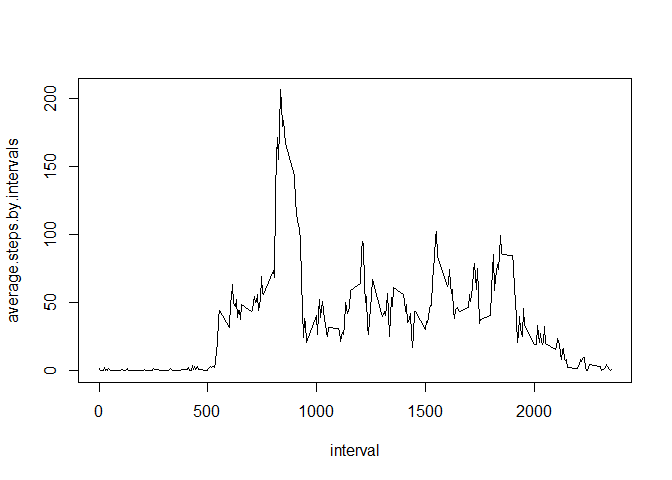
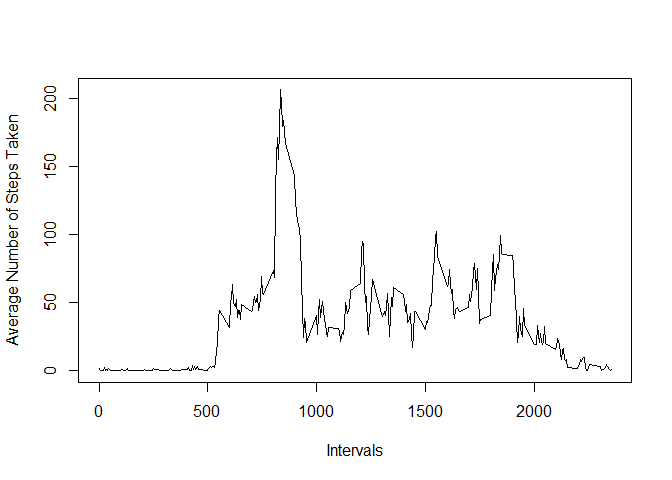
modified again

Changed region(s): [[0.0, 0.25, 0.0312, 0.7188], [0.4688, 0.9062, 0.5625, 0.9688]]

diff --git a/PA1_template.html b/PA1_template.html
@@ -106,11 +106,12 @@ data.1 &lt;- distinct(data.1,
 
 # finally, we can draw a histogram
 hist(data.1$steps.by.days,
-     xlab=&quot;Num. of steps&quot;,
+     xlab=&quot;Number of Steps Taken&quot;,
+     ylab=&quot;Number of Days&quot;,
      main=&quot;Histogram of number of steps taken by days&quot;,
      labels=TRUE,
      col=&quot;orange&quot;)</code></pre>
[2 lines of base64/hex data omitted]
 <pre class="r"><code>data1.mean &lt;- mean(data.1$steps.by.days)
 data1.median &lt;- median(data.1$steps.by.days)</code></pre>
 <p>Mean total number of steps taken per day is 1.076618910^{4}, while the median has value of 1.076510^{4}.</p>
@@ -132,27 +133,69 @@ data.2 &lt;- distinct(data.2,
 # finally, we can draw a plot
 with(data.2, plot(interval,
                   average.steps.by.intervals,
-                  type=&quot;l&quot;))</code></pre>
[1 lines of base64/hex data omitted]
+                  type=&quot;l&quot;,
+                  xlab=&quot;Intervals&quot;,
+                  ylab=&quot;Average Number of Steps Taken&quot;))</code></pre>
[1 lines of base64/hex data omitted]
 <pre class="r"><code># we must ungroup the data so that we can find interval with maximal average steps taken
 data.2 &lt;- ungroup(data.2)
 
 # now we can find needed interval
-filter(data.2,
-       average.steps.by.intervals==max(average.steps.by.intervals))$interval</code></pre>
-<pre><code>## [1] 835</code></pre>
+maximum.number.of.steps &lt;- filter(data.2,
+                                  average.steps.by.intervals==max(average.steps.by.intervals))$interval</code></pre>
+<p>Interval <strong>835</strong> contains the maximum number of steps, on average across all the days in the dataset.</p>
 </div>
 <div id="imputing-missing-values" class="section level2">
 <h2>Imputing missing values</h2>
-<pre class="r"><code>sum(is.na(with.NAs))</code></pre>
-<pre><code>## [1] 2304</code></pre>
-<pre class="r"><code># data &lt;- group_by(data, interval)
-# data &lt;- mutate(data, interval.mean=mean(steps, na.rm=TRUE))
-# backup &lt;- mutate(backup, new.steps=ifelse(is.na(steps), interval.mean, steps))</code></pre>
+<pre class="r"><code>sum.of.NAs &lt;- sum(is.na(with.NAs))</code></pre>
+<p>The total number of missing values in the dataset (i.e. the total number of rows with <code>NA</code>s) is <strong>2304</strong>.</p>
+<p>In the next code chunk we firstly group data by inervals (including rows with <code>NA</code>s). That is made because we are going to replace all <code>NA</code>s with mean number of steps taken in each interval.</p>
+<pre class="r"><code>data.3 &lt;- group_by(with.NAs, interval)</code></pre>
+<p>So after grouping the data is done, we add a variable called inerval.mean, which contains mean number of steps taken for each interval separately.</p>
+<pre class="r"><code>data.3 &lt;- mutate(data.3, interval.mean=mean(steps, na.rm=TRUE))</code></pre>
+<p>The last step is done with ease of <code>ifelse</code> statement, which allows us to simply replace <code>NA</code>s with mean number of steps for current interval, or to let there original number of steps.</p>
+<pre class="r"><code>data.3 &lt;- mutate(data.3, steps=ifelse(is.na(steps), interval.mean, steps))
+data.3 &lt;- select(data.3, steps, date, interval)
+data.3</code></pre>
+<pre><code>## Source: local data frame [17,568 x 3]
+## Groups: interval
+## 
+##        steps       date interval
+## 1  1.7169811 2012-10-01        0
+## 2  0.3396226 2012-10-01        5
+## 3  0.1320755 2012-10-01       10
+## 4  0.1509434 2012-10-01       15
+## 5  0.0754717 2012-10-01       20
+## 6  2.0943396 2012-10-01       25
+## 7  0.5283019 2012-10-01       30
+## 8  0.8679245 2012-10-01       35
+## 9  0.0000000 2012-10-01       40
+## 10 1.4716981 2012-10-01       45
+## ..       ...        ...      ...</code></pre>
+<pre class="r"><code># data.3 &lt;- ungroup(data.3)
+# 
+# data.3 &lt;- group_by(data.3,
+#                    date)
+# 
+# data.3 &lt;- mutate(data.3,
+#                  steps.by.days=sum(new.steps))
+# 
+# data.3 &lt;- distinct(data.3,
+#                    date)
+# 
+# hist(data.3$steps.by.days,
+#      xlab=&quot;Number of Steps Taken&quot;,
+#      ylab=&quot;Number of Days&quot;,
+#      main=&quot;Histogram of number of steps taken by days&quot;,
+#      labels=TRUE,
+#      col=&quot;orange&quot;)
+# 
+# data3.mean &lt;- mean(data.3$steps.by.days)
+# data3.median &lt;- median(data.3$steps.by.days)Mean total number of steps taken per day with `NA`s replaced is `r data3.mean`, while the median has value of `r data3.median`.</code></pre>
 </div>
 <div id="are-there-differences-in-activity-patterns-between-weekdays-and-weekends" class="section level2">
 <h2>Are there differences in activity patterns between weekdays and weekends?</h2>
-<p>V tejto casti treba pouzit data, kde su NA hodnoty nahradene uz!!!</p>
+<p>In this part we have got one restriction, which is to use the dataset made few steps before, where all <code>NA</code>s were replaced.</p>
 <pre class="r"><code># we simply add a variable containing type of the current day
 data.4 &lt;- mutate(without.NAs,
                  day.type=ifelse(weekdays(date) %in% c('sobota','nedela'),'weekend','weekday'))
@@ -173,9 +216,11 @@ data.4 &lt;- distinct(data.4,
 
 xyplot(average.steps.by.day.type ~ interval | day.type,
        data=data.4,
+       xlab=&quot;Intervals&quot;,
+       ylab=&quot;Average Number of Steps Taken&quot;,
        layout=c(1,2),
        type=&quot;l&quot;)</code></pre>
[2 lines of base64/hex data omitted]
 <pre class="r"><code>data.4 &lt;- ungroup(data.4)
 
 filter(data.4,

diff --git a/PA1_template.md b/PA1_template.md
@@ -57,7 +57,8 @@ data.1 <- distinct(data.1,
 
 # finally, we can draw a histogram
 hist(data.1$steps.by.days,
-     xlab="Num. of steps",
+     xlab="Number of Steps Taken",
+     ylab="Number of Days",
      main="Histogram of number of steps taken by days",
      labels=TRUE,
      col="orange")
@@ -90,7 +91,9 @@ data.2 <- distinct(data.2,
 # finally, we can draw a plot
 with(data.2, plot(interval,
                   average.steps.by.intervals,
-                  type="l"))
+                  type="l",
+                  xlab="Intervals",
+                  ylab="Average Number of Steps Taken"))
 ```
 
 ![](PA1_template_files/figure-html/averageDailyPattern-1.png) 
@@ -100,32 +103,86 @@ with(data.2, plot(interval,
 data.2 <- ungroup(data.2)
 
 # now we can find needed interval
-filter(data.2,
-       average.steps.by.intervals==max(average.steps.by.intervals))$interval
+maximum.number.of.steps <- filter(data.2,
+                                  average.steps.by.intervals==max(average.steps.by.intervals))$interval
 ```
+Interval **835** contains the maximum number of steps, on average across all the days in the dataset.
 
-```
-## [1] 835
-```
 
 ## Imputing missing values
 
 ```r
-sum(is.na(with.NAs))
+sum.of.NAs <- sum(is.na(with.NAs))
 ```
+The total number of missing values in the dataset (i.e. the total number of rows with `NA`s) is **2304**.
 
-```
-## [1] 2304
-```
+In the next code chunk we firstly group data by inervals (including rows with `NA`s). That is made because we are going to replace all `NA`s with mean number of steps taken in each interval.
 
 ```r
-# data <- group_by(data, interval)
-# data <- mutate(data, interval.mean=mean(steps, na.rm=TRUE))
-# backup <- mutate(backup, new.steps=ifelse(is.na(steps), interval.mean, steps))
+data.3 <- group_by(with.NAs, interval)
 ```
 
+So after grouping the data is done, we add a variable called inerval.mean, which contains mean number of steps taken for each interval separately.
+
+```r
+data.3 <- mutate(data.3, interval.mean=mean(steps, na.rm=TRUE))
+```
+
+The last step is done with ease of `ifelse` statement, which allows us to simply replace `NA`s with mean number of steps for current interval, or to let there original number of steps.
+
+```r
+data.3 <- mutate(data.3, steps=ifelse(is.na(steps), interval.mean, steps))
+data.3 <- select(data.3, steps, date, interval)
+data.3
+```
+
+```
+## Source: local data frame [17,568 x 3]
+## Groups: interval
+## 
+##        steps       date interval
+## 1  1.7169811 2012-10-01        0
+## 2  0.3396226 2012-10-01        5
+## 3  0.1320755 2012-10-01       10
+## 4  0.1509434 2012-10-01       15
+## 5  0.0754717 2012-10-01       20
+## 6  2.0943396 2012-10-01       25
+## 7  0.5283019 2012-10-01       30
+## 8  0.8679245 2012-10-01       35
+## 9  0.0000000 2012-10-01       40
+## 10 1.4716981 2012-10-01       45
+## ..       ...        ...      ...
+```
+
+
+
+```r
+# data.3 <- ungroup(data.3)
+# 
+# data.3 <- group_by(data.3,
+#                    date)
+# 
+# data.3 <- mutate(data.3,
+#                  steps.by.days=sum(new.steps))
+# 
+# data.3 <- distinct(data.3,
+#                    date)
+# 
+# hist(data.3$steps.by.days,
+#      xlab="Number of Steps Taken",
+#      ylab="Number of Days",
+#      main="Histogram of number of steps taken by days",
+#      labels=TRUE,
+#      col="orange")
+# 
+# data3.mean <- mean(data.3$steps.by.days)
+# data3.median <- median(data.3$steps.by.days)Mean total number of steps taken per day with `NA`s replaced is `r data3.mean`, while the median has value of `r data3.median`.
+```
+
+
+
 ## Are there differences in activity patterns between weekdays and weekends?
-V tejto casti treba pouzit data, kde su NA hodnoty nahradene uz!!!
+In this part we have got one restriction, which is to use the dataset made few steps before, where all `NA`s were replaced.
 
 ```r
 # we simply add a variable containing type of the current day
@@ -148,11 +205,13 @@ data.4 <- distinct(data.4,
 
 xyplot(average.steps.by.day.type ~ interval | day.type,
        data=data.4,
+       xlab="Intervals",
+       ylab="Average Number of Steps Taken",
        layout=c(1,2),
        type="l")
 ```
 
-![](PA1_template_files/figure-html/unnamed-chunk-1-1.png) 
+![](PA1_template_files/figure-html/unnamed-chunk-5-1.png) 
 
 ```r
 data.4 <- ungroup(data.4)
